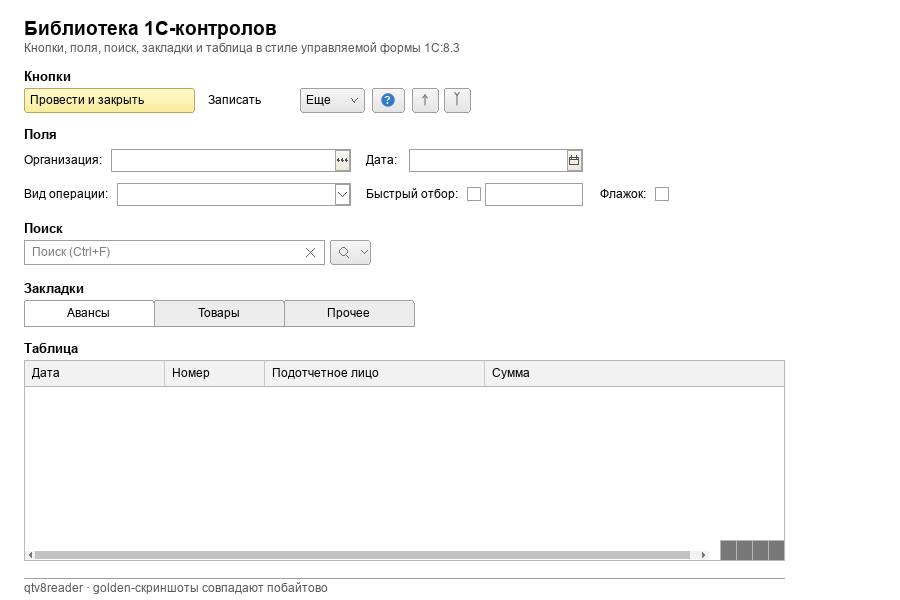
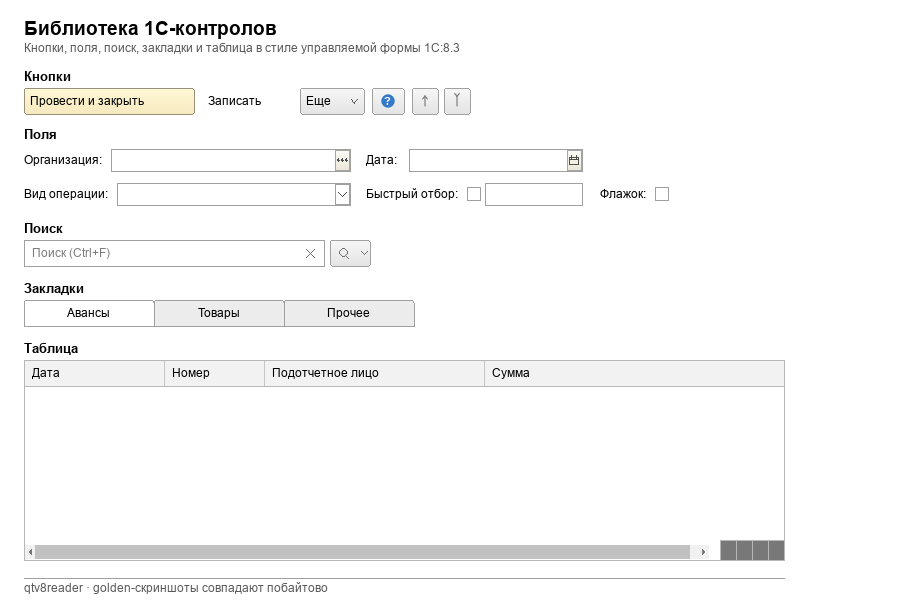
feat(forms): окно и масштаб конфигуратора

diff --git a/src/gui/FormView.cpp b/src/gui/FormView.cpp
@@ -73,6 +73,13 @@ bool looksTechnical(const QString &text)
         || text.contains(QLatin1Char('%'));
 }
 
+QFont formFont()
+{
+    QFont font(QStringLiteral("Arial"));
+    font.setPointSizeF(9.5);
+    return font;
+}
+
 // Имена реквизитов, которые в 1С являются ссылочными: у их полей есть
 // кнопка выбора (три точки) справа.
 bool looksLikeReferenceField(const QString &name)
@@ -104,7 +111,7 @@ bool isServiceItem(const v8reader::FormItem &item)
         return true;
     if (!item.visible)
         return true;
-    if (item.name == QStringLiteral("Баннер"))
+    if (item.name.startsWith(QStringLiteral("Баннер")))
         return true;
     if (item.name.contains(QStringLiteral("КонтекстноеМеню"))
         || item.name.endsWith(QStringLiteral("РасширеннаяПодсказка"))
@@ -117,6 +124,28 @@ bool isServiceDecoration(const v8reader::FormItem &item)
 {
     return item.type == v8reader::FormItem::Type::Decoration
         && item.synonym.isEmpty();
+}
+
+// Группа без видимого содержимого не должна занимать высоту: в форме
+// списка такие служебные группы оставляли пустую полосу под панелью.
+bool hasRenderableContent(const v8reader::FormItem &item)
+{
+    using Type = v8reader::FormItem::Type;
+    if (!item.visible)
+        return false;
+    if (item.type == Type::Group) {
+        for (const v8reader::FormItem &child : item.children) {
+            if (isServiceItem(child) || isServiceDecoration(child))
+                continue;
+            if (hasRenderableContent(child))
+                return true;
+        }
+        return false;
+    }
+    if (item.type == Type::Decoration)
+        return !item.synonym.isEmpty();
+    return item.type == Type::Field || item.type == Type::Button
+        || item.type == Type::Table || item.type == Type::Search;
 }
 
 QString humanizeIdentifier(const QString &text)
@@ -217,7 +246,7 @@ class LayoutEngine
 public:
     LayoutEngine(const v8reader::FormDocument &document, double width)
         : m_document(document), m_width(width),
-          m_font(QStringLiteral("Arial"), 9), m_metrics(m_font)
+          m_font(formFont()), m_metrics(m_font)
     {
         for (const v8reader::FormCommand &command : document.commands) {
             if (!command.name.isEmpty() && !command.synonym.isEmpty())
@@ -277,7 +306,7 @@ public:
 
         QVector<const v8reader::FormItem *> items;
         for (const v8reader::FormItem &item : localItems) {
-            if (!isServiceItem(item))
+            if (!isServiceItem(item) && hasRenderableContent(item))
                 items.append(&item);
         }
         *contentHeight = layoutVertical(items, QRectF(0.0, 0.0, m_width, 100000.0), 0);
@@ -299,7 +328,7 @@ public:
             if (table) {
                 const double chipsTop = table->rect.top();
                 const double chipsLeft = table->rect.left();
-                const double chipHeight = 22.0;
+                const double chipHeight = 26.0;
                 const double chipGap = 4.0;
                 for (PreviewControl &control : *controls) {
                     if (control.rect.top() >= chipsTop - 0.1)
@@ -401,19 +430,17 @@ private:
                 && icon != ButtonIcon::Create && icon != ButtonIcon::CreateBasedOn
                 && icon != ButtonIcon::Print;
             if (iconOnly)
-                return 32.0;
+                return 28.0;
             double width = m_metrics.horizontalAdvance(buttonTitle(item)) + 16.0;
             if (icon != ButtonIcon::None)
                 width += 22.0;
-            // У основной кнопки «Создать» есть выпадающий список; оставляем
-            // место, чтобы подпись не превращалась в «Созд…».
             if (item.name == QStringLiteral("Создать"))
-                width += 20.0;
-            return std::min(260.0, width);
+                width += 10.0;
+            return std::min(250.0, width);
         }
         case Type::Search:
             if (item.name.contains(QStringLiteral("СтрокаПоиска")))
-                return 220.0;
+                return 180.0;
             if (item.name.contains(QStringLiteral("УправлениеПоиском")))
                 return 40.0;
             return 40.0;
@@ -429,9 +456,11 @@ private:
                     && icon != ButtonIcon::CreateBasedOn
                     && icon != ButtonIcon::Print;
                 if (iconOnly)
-                    return 34.0;
+                    return 28.0;
                 const QString title = item.synonym.isEmpty()
                     ? humanizeCommand(item.name) : item.synonym;
+                if (item.name == QStringLiteral("Еще"))
+                    return 60.0;
                 return std::max(64.0,
                     m_metrics.horizontalAdvance(title) + 44.0);
             }
@@ -660,7 +689,9 @@ private:
         for (const v8reader::FormItem *item : items) {
             if (item->name.endsWith(QStringLiteral("Использование")))
                 continue;
-            const double height = naturalHeight(*item, rect.width());
+            double height = naturalHeight(*item, rect.width());
+            if (isTopCommandBar(*item))
+                height = FormStyle::buttonHeight + 6.0;
             if (height <= 0.0)
                 continue;
             if (item->type == v8reader::FormItem::Type::Field) {
@@ -863,7 +894,7 @@ private:
             const bool searchOptions = item->type == v8reader::FormItem::Type::Search
                 && item->name.contains(QStringLiteral("УправлениеПоиском"));
             if (!searchOptions)
-                width = std::max(34.0, width);
+                width = std::max(28.0, width);
             if (dropDownButtons.contains(item))
                 width += 12.0;
             return width;
@@ -952,6 +983,26 @@ private:
             for (int i = 0; i < row.size(); ++i)
                 rowHeight = std::max(rowHeight,
                     naturalHeight(*visible.at(row.at(i)), rowWidths.at(i)));
+
+            // Две строки быстрого отбора делят ширину поровну, как в
+            // конфигураторе; иначе первое поле съедает почти всю строку.
+            if (!runtimeCommands && row.size() == 2) {
+                bool bothFilters = true;
+                for (int index : row) {
+                    const v8reader::FormItem *item = visible.at(index);
+                    const QString usageName = item->name + QStringLiteral("Использование");
+                    if (item->type != v8reader::FormItem::Type::Field
+                        || usage.value(usageName).isEmpty()) {
+                        bothFilters = false;
+                        break;
+                    }
+                }
+                if (bothFilters) {
+                    const double each = (rect.width() - 8.0) / 2.0;
+                    rowWidths[0] = each;
+                    rowWidths[1] = each;
+                }
+            }
 
             // Поиск, «Еще» и «?» в 1С прижаты к правому краю командной панели.
             int rightStart = -1;
@@ -1250,23 +1301,23 @@ private:
                 double width = 0.0;
                 if (list) {
                     if (column == QStringLiteral("Дата"))
-                        width = 200.0;
-                    else if (column == QStringLiteral("Номер"))
                         width = 150.0;
+                    else if (column == QStringLiteral("Номер"))
+                        width = 125.0;
                     else if (column == QStringLiteral("Подотчетное лицо"))
-                        width = 190.0;
+                        width = 140.0;
                     else if (column == QStringLiteral("Сумма"))
-                        width = 130.0;
+                        width = 105.0;
                     else if (column == QStringLiteral("Валюта"))
-                        width = 120.0;
+                        width = 100.0;
                     else if (column == QStringLiteral("Склад"))
-                        width = 110.0;
+                        width = 95.0;
                     else if (column == QStringLiteral("Вид операции"))
-                        width = 160.0;
+                        width = 120.0;
                     else if (column == QStringLiteral("Организация"))
-                        width = 200.0;
+                        width = 150.0;
                     else
-                        width = std::max(130.0,
+                        width = std::max(120.0,
                             headerMetrics.horizontalAdvance(column) + 24.0);
                 } else {
                     const double minWidth = 80.0;
@@ -1487,8 +1538,49 @@ protected:
         painter.fillRect(rect(), Qt::white);
         painter.scale(m_scale, m_scale);
 
+        const double logicalW = width() / m_scale;
+        const double logicalH = height() / m_scale;
+        const double titleHeight = 28.0;
+
+        // Рамка и заголовок окна конфигуратора.
+        QLinearGradient titleGradient(0.0, 0.0, 0.0, titleHeight);
+        titleGradient.setColorAt(0.0, QColor(143, 185, 225));
+        titleGradient.setColorAt(1.0, QColor(155, 185, 213));
+        painter.fillRect(QRectF(0.0, 0.0, logicalW, titleHeight), titleGradient);
+        painter.setPen(QColor(255, 255, 255));
+        painter.drawLine(QPointF(0.5, 0.5), QPointF(logicalW - 0.5, 0.5));
+        painter.drawLine(QPointF(0.5, 0.5), QPointF(0.5, logicalH - 0.5));
+        painter.setPen(QColor(0, 16, 38));
+        painter.drawRect(QRectF(0.5, 0.5, logicalW - 1.0, logicalH - 1.0));
+        painter.setPen(QColor(69, 139, 201));
+        painter.drawRect(QRectF(1.5, 1.5, logicalW - 3.0, logicalH - 3.0));
+        painter.setPen(QColor(226, 255, 255));
+        painter.drawRect(QRectF(2.5, 2.5, logicalW - 5.0, logicalH - 5.0));
+
+        QFont windowFont = formFont();
+        windowFont.setBold(true);
+        painter.setFont(windowFont);
+        painter.setPen(QColor(23, 52, 86));
+        const QString windowTitle = !m_document ? QStringLiteral("Форма")
+            : (!m_document->synonym.isEmpty() ? m_document->synonym
+                                              : m_document->name);
+        painter.drawText(QRectF(10.0, 1.0, logicalW - 90.0, titleHeight - 2.0),
+                         Qt::AlignLeft | Qt::AlignVCenter, windowTitle);
+        // Кнопки окна.
+        painter.setPen(QColor(240, 250, 255));
+        const double buttonY = titleHeight / 2.0;
+        painter.drawLine(QPointF(logicalW - 62.0, buttonY + 4.0),
+                         QPointF(logicalW - 52.0, buttonY + 4.0));
+        painter.drawRect(QRectF(logicalW - 42.0, buttonY - 4.0, 8.0, 8.0));
+        painter.drawLine(QPointF(logicalW - 20.0, buttonY - 4.0),
+                         QPointF(logicalW - 12.0, buttonY + 4.0));
+        painter.drawLine(QPointF(logicalW - 20.0, buttonY + 4.0),
+                         QPointF(logicalW - 12.0, buttonY - 4.0));
+        painter.setPen(QColor(120, 150, 180));
+        painter.drawLine(QPointF(0.0, titleHeight), QPointF(logicalW, titleHeight));
+
         const QFont titleFont(QStringLiteral("Arial"), 14, QFont::Bold);
-        const QFont font(QStringLiteral("Arial"), 9);
+        const QFont font = formFont();
         const QFontMetricsF metrics(font);
 
         if (!m_document) {
@@ -1504,12 +1596,10 @@ protected:
         for (const PreviewControl &control : m_controls)
             paintControl(painter, control, font, metrics);
 
-        // Тонкая рамка клиентской области, как у окна конфигуратора.
-        painter.setPen(QPen(QColor(140, 150, 160), 1.0));
+        // Тонкая рамка клиентской области под заголовком.
+        painter.setPen(QPen(QColor(150, 160, 170), 1.0));
         painter.setBrush(Qt::NoBrush);
-        painter.drawRect(QRectF(0.0, 0.0,
-                                width() / m_scale - 1.0,
-                                height() / m_scale - 1.0));
+        painter.drawRect(QRectF(3.0, 28.0, logicalW - 6.0, logicalH - 31.0));
     }
 
 private:
@@ -1523,7 +1613,7 @@ private:
             return;
         }
 
-        const double margin = 6.0;
+        const double margin = 10.0;
         double viewportWidth = 0.0;
         double viewportHeight = 0.0;
         if (QWidget *viewport = parentWidget()) {
@@ -1535,7 +1625,7 @@ private:
         // Ширина формы следует за шириной панели, как окно 1С: при масштабе
         // 75% форма занимает панель целиком, при увеличении — прокручивается.
         const double baseWidth = viewportWidth > 2.0
-            ? (viewportWidth - 1.0) / 0.75 : kFormWidth;
+            ? (viewportWidth - 1.0) / m_scale : kFormWidth;
         const double logicalWidth = std::clamp(baseWidth, 700.0, 1600.0);
         const double contentWidth = logicalWidth - margin * 2.0;
 
@@ -1543,8 +1633,9 @@ private:
         // а не оставлять пустую полосу под собой.
         const double viewportLogical = viewportHeight > 0.0
             ? viewportHeight / m_scale : 0.0;
+        const double titleBarHeight = 28.0;
         const double targetContentHeight = std::max(0.0,
-            viewportLogical - margin * 2.0 - 2.0);
+            viewportLogical - margin * 2.0 - titleBarHeight - 2.0);
 
         LayoutEngine engine(*m_document, contentWidth);
         double contentHeight = 0.0;
@@ -1574,13 +1665,14 @@ private:
         }
 
         for (PreviewControl &control : controls)
-            control.rect.translate(margin, margin);
+            control.rect.translate(margin, margin + titleBarHeight);
         m_controls = controls;
         m_contentHeight = contentHeight;
-        double logicalHeight = qBound(280.0, margin * 2.0 + contentHeight, 8000.0);
+        double logicalHeight = qBound(280.0,
+            margin * 2.0 + contentHeight + titleBarHeight, 8000.0);
         if (targetContentHeight > 0.0) {
             logicalHeight = std::max(logicalHeight,
-                margin * 2.0 + targetContentHeight);
+                margin * 2.0 + targetContentHeight + titleBarHeight);
         }
         setFixedSize(int(logicalWidth * m_scale), int(logicalHeight * m_scale));
         update();
@@ -1591,7 +1683,7 @@ private:
     const v8reader::FormDocument *m_document = nullptr;
     QVector<PreviewControl> m_controls;
     double m_contentHeight = 0.0;
-    double m_scale = 0.75;
+    double m_scale = 1.0;
 };
 
 namespace v8reader {
@@ -1621,7 +1713,7 @@ FormView::FormView(QWidget *parent)
     const QVector<int> scales = {50, 75, 100, 125, 150};
     for (int percent : scales)
         m_scaleCombo->addItem(QStringLiteral("%1%").arg(percent), percent);
-    m_scaleCombo->setCurrentIndex(1);
+    m_scaleCombo->setCurrentIndex(2);
     toolbar->addWidget(m_scaleCombo);
     m_treeToggle = new QToolButton(formPage);
     m_treeToggle->setObjectName(QStringLiteral("formTreeToggle"));

diff --git a/src/gui/controls/FormStyle.h b/src/gui/controls/FormStyle.h
@@ -10,16 +10,16 @@ namespace FormStyle {
 inline const QColor text(0, 0, 0);
 inline const QColor secondaryText(90, 90, 90);
 inline const QColor fieldBorder(160, 160, 160);
-inline const QColor primaryTop(255, 250, 205);
-inline const QColor primaryBottom(250, 237, 158);
-inline const QColor primaryBorder(191, 164, 90);
+inline const QColor primaryTop(255, 248, 214);
+inline const QColor primaryBottom(247, 233, 192);
+inline const QColor primaryBorder(150, 145, 120);
 inline const QColor tableBorder(183, 183, 183);
 inline const QColor gridLine(199, 199, 199);
 inline const QColor headerBackground(242, 242, 242);
 inline const QColor alternateRow(250, 250, 250);
 inline const QColor separator(208, 208, 208);
 
-inline constexpr double buttonHeight = 24.0;
+inline constexpr double buttonHeight = 26.0;
 inline constexpr double tableHeaderHeight = 26.0;
 inline constexpr double tableRowHeight = 20.0;
 

diff --git a/src/gui/controls/TableControl.cpp b/src/gui/controls/TableControl.cpp
@@ -31,7 +31,7 @@ void paintTable(QPainter &painter, const TableVisual &visual,
     for (double width : widths)
         columnsTotal += width;
     const bool horizontalScroll = columnsTotal > contentWidth + 0.5;
-    const double scrollHeight = horizontalScroll ? 10.0 : 0.0;
+    const double scrollHeight = horizontalScroll ? 16.0 : 0.0;
     const double tableHeight = rect.height();
 
     const QRectF header(rect.left(), rect.top(), rect.width(), headerHeight);

diff --git a/src/gui/MainWindow.cpp b/src/gui/MainWindow.cpp
@@ -190,7 +190,7 @@ void MainWindow::setupUi()
     splitter->addWidget(m_tabs);
     splitter->setStretchFactor(0, 0);
     splitter->setStretchFactor(1, 1);
-    splitter->setSizes({360, 920});
+    splitter->setSizes({280, 1000});
 
     setCentralWidget(splitter);
 

diff --git a/CHANGELOG.md b/CHANGELOG.md
@@ -94,6 +94,11 @@
 - Форма списка приближена к виду конфигуратора: показываются все колонки
   формы, первая колонка — с карандашом, пустая таблица без строк, строка
   фильтров-чипов, белые выпадающие списки быстрых отборов.
+- Форма списка открывается на 100%, дерево элементов скрыто по умолчанию
+  (возвращается кнопкой «Дерево»), левая панель уже — предпросмотр занимает
+  почти всё окно.
+- У предпросмотра появилась синяя рамка окна конфигуратора с заголовком
+  и кнопками, быстрые отборы делят строку поровну.
 - В формах элементов справочников добавлены стандартные команды
   «Записать и закрыть» и «Записать»; командная панель таких форм
   определяется и без отдельной группы кнопок.

diff --git a/README.md b/README.md
@@ -108,9 +108,10 @@
 
 ![Форма списка](docs/screenshot-form.png)
 
-Вкладка «Форма» на примере формы списка «Авансовый отчет»: быстрые отборы,
-плоская командная панель в стиле 1С с жёлтой кнопкой «Создать», все колонки
-формы, как в конфигураторе, строка отборов и масштаб 50–150%.
+Вкладка «Форма» на примере формы списка «Авансовый отчет»: окно с заголовком,
+быстрые отборы, плоская командная панель в стиле 1С с жёлтой кнопкой
+«Создать», все колонки формы, как в конфигураторе, строка отборов и
+масштаб 50–150%.
 
 ![Форма документа](docs/screenshot-form-document.png)
 
